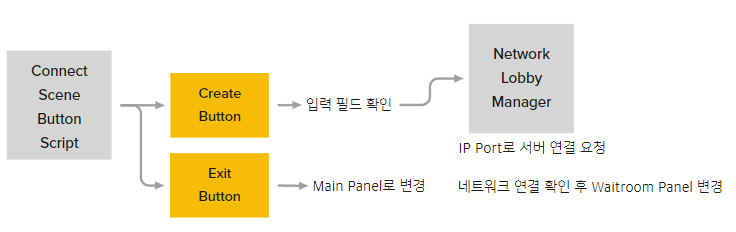
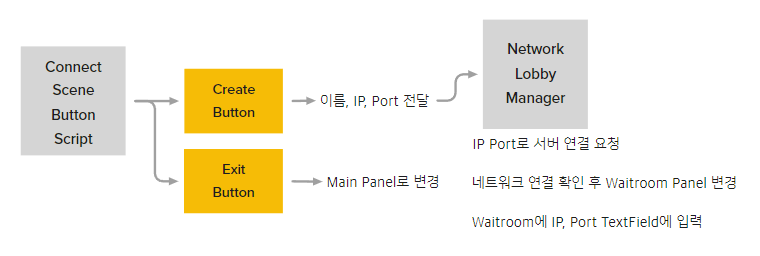
Update
Connect Scene 중간확인
돌아가기 추가

Changed region(s): [[0.0, 0.0603, 1.0, 0.9655]]

diff --git a/UnityProject/NetworkShooting/Description/UI, Scene/Connect Scene/Readme.md b/UnityProject/NetworkShooting/Description/UI, Scene/Connect Scene/Readme.md
@@ -1,78 +1,127 @@
 ## Connect Scene(Lobby)
 <br>
 
-### <b>UI Panel Flow Chart</b>
-
-![미리보기](../_Image/Connect%20Scene%20UIFlowChart.png) 
+| <H3><b>UI Panel Flow Chart</b></H3>|
+|:---:|
+|![미리보기](../_Image/Connect%20Scene%20UIFlowChart.png)|
 - 다음은 씬 내 패널의 Flow 차트를 설명한 이미지 입니다.
+- Connect Scene Button Script/ CommonButton Script는 UI 최상단 오브젝트 컴포넌트로 등록
 - Connect Scene Button Script 
-  - 씬 패널 관리, 변경
-  - 입력 필드를 읽어 서버 생성, 네트워크 연결
+  - 씬 패널 관리, 변경 (한번에 한 개의 패널만 존재)
+  - 입력 필드를 읽어 서버 생성 혹은 네트워크 연결
 - Common Button Script
   - Scene 변경
   - 프로그램 종료
   
 <br>
 
----
+## 바로가기
+### Connect Scene
+ - [Main Panel](#connect-scene-main)
+ - [Host Panel](#connect-scene-host-panel)
+ - [Client Panel](#connect-scene-client-panel)
+ - [Waitroom Panel](#connect-scene-waitroom-panel)
+
+<br>
 
 ## Connect Scene Main
 
-
- ![미리보기](../_Image/Connect%20Scene%20Main.png)
-
-### Button 구현 도식도
-
- ![미리보기](../_Image/Connect%20Scene%20MainPanel%20%EC%84%A4%EA%B3%84%20%EB%82%B4%EC%9A%A9.png)
+ |<H3><b>실제화면</b></H3>| <H3><b>Button 구현 도식도</b></H3>|
+ |:---:|:---:|
+ |![미리보기](../_Image/Connect%20Scene%20Main.png)|![미리보기](../_Image/Connect%20Scene%20MainPanel%20%EC%84%A4%EA%B3%84%20%EB%82%B4%EC%9A%A9.png)|
 
 ## 구현내용 
-- Connect Scene Button Script는 UI 최상단 오브젝트 컴포넌트로 등록
 - Panel 변경
-  - Connect Scene Button Script의 UIChangeTo 함수로 변경
+  - ConnectSceneButtonScript.UIChangeTo() 함수로 변경
   - 각 버튼 OnClick 이벤트에 Connect Scene Button script 내 함수 등록
   - Panel변경시 한 개의 Panel만 뜨도록 설계
-  
+  - HostButton
+    - ConnectSceneButtonScript.OnClickHostInHCSelect() 연결됨
+    - UIChangeTo 함수로 Host Panel로 변경
+  - ConnectButton
+    - ConnectSceneButtonScript.OnClickHostInHCSelect() 연결됨
+    - UIChangeTo 함수로 Client Panel로 변경
 - Scene 변경
-  - Connect -> Main : CommonButtonScript switchScene 함수로 MainScene으로 씬변경
+  - ExitButton : Main Scene으로 변경 요청
+  - CommonButtonScript switchScene 함수로 MainScene으로 씬변경
+    - SceneManagement.SceneManager.LoadScene(string)을 이용
 
+
+## [돌아가기](#connect-scenelobby)
 
 <br>
-
----
-
-<br>
-
 
 ## Connect Scene Host Panel
 
+ |<H3><b>실제화면</b></H3>| <H3><b>Button 구현 도식도</b></H3>|
+ |:---:|:---:|
+ |![미리보기](../_Image/Connect%20Scene%20Host.png)|![미리보기](../_Image/Connect%20Scene%20Host%20Panel%20설계%20내용.png)|
 
- ![미리보기](../_Image/Connect%20Scene%20Host.png)
- 
+ ## 구현 내용 
+ - CreateButton
+   - ConnectSceneButtonScript.OnClickCreateInHost() 연결됨
+   - NetworkLobbyManager로 InputField의 Port 입력값을 전달
+   - StartHost()로 호스트 서버 생성
+   - 호스트 서버 생성 확인 후 waitroom Panel 변경
+ - ExitButton
+   - ConnectSceneButtonScript.OnClickCreateInHost() 연결됨
+   - UIChangeTo 함수로 MainPanel로 변경
 
 
-![미리보기](../_Image/Connect%20Scene%20Host%20Panel%20설계%20내용.png)
-
-<br>
-
----
+## [돌아가기](#connect-scenelobby)
 
 <br>
 
 ## Connect Scene Client Panel
 
- ![미리보기](../_Image/Connect%20Scene%20Client.png)
+|<H3><b>실제화면</b></H3>| <H3><b>Button 구현 도식도</b></H3>|
+ |:---:|:---:|
+ | ![미리보기](../_Image/Connect%20Scene%20Client.png)|![미리보기](../_Image/Connect%20Scene%20Connect%20Panel%20설계%20내용.png)|
 
- ## 구현내용 
+ ## 구현내용  
+ - ConnectButton
+   - ConnectSceneButtonScript.OnClickCreateInHost() 연결됨
+   - NetworkLobbyManager로 InputField의 IP, Port 입력값을 전달
+   - StartClient()로 호스트 서버 생성
+   - 호스트 서버 생성 확인 후 waitroom Panel 변경
+ - ExitButton
+   - ConnectSceneButtonScript.OnClickCreateInHost() 연결됨
+   - UIChangeTo 함수로 MainPanel로 변경
 
-![미리보기](../_Image/Connect%20Scene%20Connect%20Panel%20설계%20내용.png)
-
-<br>
-
----
+## [돌아가기](#connect-scenelobby)
 
 <br>
 
 ## Connect Scene Waitroom Panel
 
 
- ![미리보기](../_Image/Connect%20Scene%20Waitroom.png)
+<table>
+  <tr>
+    <td><center><H3><b>실제화면</b></H3></<center></td>
+    <td colspan=><center><H3><b>네트워크의 접속, Waitroom Panel 전환 요청 이후 setting 과정</b></H3></center></td>
+  </tr>
+  <tr>
+    <td><center><img src=" ../_Image/Connect%20Scene%20Waitroom.png"></center></td>
+    <td colspan=><center><img src=" ../_Image/Waitroom%20%EC%A0%91%EC%86%8D%20%ED%9B%84%20%EC%84%A4%EC%A0%95%EA%B3%BC%EC%A0%95.png"></center></td>
+  </tr>
+  <tr>
+    <td colspan="2"><center><H3><b>Ready 후 Text(Ready) 변경 과정</b></H3></center></td>
+  </tr>
+  <tr>
+    <td colspan="2"><center><img src="../_Image/Waitroom%20Ready%20후%20Text%20변경과정.png"></center></td>
+  </tr>
+  <tr>
+    <td colspan="2"><center><H3><b>Button 구현 도식도</b></H3></center></td>
+  </tr>
+  <tr>
+    <td colspan="2"><center><img src="../_Image/Waitroom%20Button%20설계%20내용.png"><center></td>
+  </tr>
+
+</table>
+
+## 구현 내용
+- Waitroom Panel Setting 과정
+  -  NetworkLobbyManager가 네트워크에 연결되면, 자동적으로 LobbyPlayer를 생성
+  -  LobbyPlayer의 OnClientEnterLobby()이벤트 발생
+
+## [돌아가기](#connect-scenelobby)

diff --git a/UnityProject/NetworkShooting/Description/UI, Scene/Readme.md b/UnityProject/NetworkShooting/Description/UI, Scene/Readme.md
@@ -22,3 +22,6 @@
  | [<H2>Main Scene</H2>](https://github.com/shehdrbs123/Dongs-Portfolio/tree/main/UnityProject/NetworkShooting/Description/UI%2C%20Scene/MainScene)|[<H2>Connect Scene</H2>](https://github.com/shehdrbs123/Dongs-Portfolio/tree/main/UnityProject/NetworkShooting/Description/UI%2C%20Scene/Connect%20Scene) |[<H2>In Game Scene</H2>](https://github.com/shehdrbs123/Dongs-Portfolio/tree/main/UnityProject/NetworkShooting/Description/UI%2C%20Scene/InGameScene)|
  |:---:|:---:|:---:|
  | [![미리보기](_Image/main%20Scene.png)](https://github.com/shehdrbs123/Dongs-Portfolio/tree/main/UnityProject/NetworkShooting/Description/UI%2C%20Scene/MainScene) |[![미리보기](_Image/Connect%20Scene%20Main.png)](https://github.com/shehdrbs123/Dongs-Portfolio/tree/main/UnityProject/NetworkShooting/Description/UI%2C%20Scene/Connect%20Scene)|[![미리보기](_Image/Ingame%20Scene.png)](https://github.com/shehdrbs123/Dongs-Portfolio/tree/main/UnityProject/NetworkShooting/Description/UI%2C%20Scene/InGameScene)|
+
+
+## [돌아가기](https://github.com/shehdrbs123/Dongs-Portfolio/tree/main/UnityProject/NetworkShooting)

diff --git a/UnityProject/NetworkShooting/Description/UI, Scene/MainScene/Readme.md b/UnityProject/NetworkShooting/Description/UI, Scene/MainScene/Readme.md
@@ -8,12 +8,14 @@
 ## 구현 내용
 
   ![미리보기](../_Image/MainScene%20%EC%84%A4%EA%B3%84%20%EB%82%B4%EC%9A%A9.png)
-
-  - CommonButtonScript를 UI 최상위 오브젝트에 추가
-  - Unity GUI Button의 Button 컴포넌트 OnClick 이벤트에 Common Button Script의 함수 연결
-  - Start Button 
-    - CommonButtonScript 내 switchScene 함수로 Connect Scene(다음씬)으로 이동
-  - Exit Button
+- Common Button Script
+  - Scene 변경
+  - 프로그램 종료
+- CommonButtonScript를 UI 최상위 오브젝트에 추가
+- Unity GUI Button의 Button 컴포넌트 OnClick 이벤트에 Common Button Script의 함수 연결
+- Start Button 
+  - CommonButtonScript 내 switchScene 함수로 Connect Scene(다음씬)으로 이동
+- Exit Button
     - CommonButtonScript 내 exitGame 함수로 게임 종료
 
 ## [돌아가기](https://github.com/shehdrbs123/Dongs-Portfolio/tree/main/UnityProject/NetworkShooting/Description/UI%2C%20Scene)

diff --git a/UnityProject/NetworkShooting/Description/UI, Scene/InGameScene/Readme.md b/UnityProject/NetworkShooting/Description/UI, Scene/InGameScene/Readme.md
@@ -7,7 +7,7 @@
 
 ## 바로가기
  - [Main Scene](#main-scene)
- - [Connect Scene](#main-scene)
+ - [Connect Scene](connect-scene(lobby))
  - [Ingame Scene](#main-scene)
 <br>
 <br>
